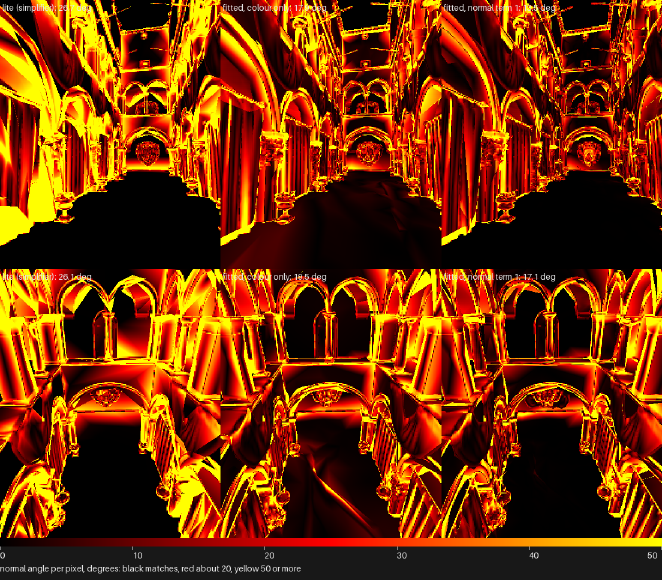
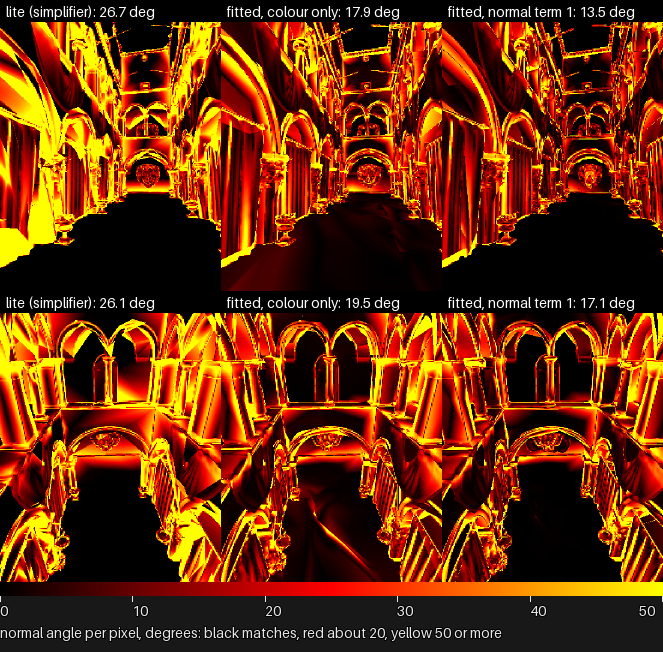
render_lab: the normal-angle heatmaps carry outlined labels

diff --git a/launcher/tools/r3d/appearance_simplify.py b/launcher/tools/r3d/appearance_simplify.py
@@ -251,14 +251,19 @@ def predicted_ms(xp, cost, clip, tris, double, size, scale):
     return variable_ms(cost, drawn, rows, pixels)
 
 
+def normal_pairs(render, points, view, clip):
+    """(the mesh's normals, the reference's, the pixels both cover) in `view`."""
+    matrix, _target, reference, eye = view
+    normal, covered = render.normals(points, matrix, eye, clip)
+    return normal, reference, covered & (reference.abs().sum(-1) > 0)
+
+
 def normal_l1(render, points, view, clip):
     """Mean L1 distance between the mesh's and the reference's normals over
     the pixels both cover, and the angles there in degrees."""
     import torch
 
-    matrix, _target, reference, eye = view
-    normal, covered = render.normals(points, matrix, eye, clip)
-    both = covered & (reference.abs().sum(-1) > 0)
+    normal, reference, both = normal_pairs(render, points, view, clip)
     if not bool(both.any()):
         return normal.sum() * 0, normal.new_zeros(0)
     distance = (normal - reference).abs().sum(-1)[both].mean()
@@ -266,9 +271,11 @@ def normal_l1(render, points, view, clip):
     return distance, torch.rad2deg(torch.acos(cosine.detach()))
 
 
-def normal_error(mesh, views, size, device="cuda"):
+def normal_error(mesh, views, size, device="cuda", angle_dir=None):
     """Mean angular error in degrees between the mesh's normals and the
-    reference's, over the pixels both cover in every view."""
+    reference's, over the pixels both cover in every view. With `angle_dir`,
+    each view's per-pixel angle is also written there as NNNN.angle.npy, NaN
+    where the mesh or the reference shows nothing."""
     import torch
 
     points0, _rgb, tris, double, _scale, vertex_point = mesh
@@ -276,10 +283,16 @@ def normal_error(mesh, views, size, device="cuda"):
     points = torch.as_tensor(points0, dtype=torch.float32, device=device)
     angles = []
     with torch.no_grad():
-        for matrix, target, reference, eye in views:
+        for index, (matrix, target, reference, eye) in enumerate(views):
             view = (torch.as_tensor(matrix, dtype=torch.float32, device=device), None,
                     torch.as_tensor(reference, device=device), eye)
             angles.append(normal_l1(render, points, view, None)[1])
+            if angle_dir is not None:
+                normal, reference, both = normal_pairs(render, points, view, None)
+                cosine = (normal * reference).sum(-1).clamp(-1.0, 1.0)
+                degrees = torch.where(both, torch.rad2deg(torch.acos(cosine)), torch.full_like(cosine, float("nan")))
+                pathlib.Path(angle_dir).mkdir(parents=True, exist_ok=True)
+                np.save(pathlib.Path(angle_dir) / f"{index:04d}.angle.npy", degrees.cpu().numpy())
     return float(torch.cat(angles).mean())
 
 
@@ -441,6 +454,7 @@ def main(argv=None):
     parser.add_argument("--normal-weight", type=float, default=0.0, help="weight of the L1 normal term")
     parser.add_argument("--refine-to", type=int, help="first split the start's worst triangles up to this many")
     parser.add_argument("--score", action="store_true", help="fit nothing: print the start's mean normal error on the poses")
+    parser.add_argument("--angle-dir", help="with --score, also write each pose's per-pixel normal angle there, for render_compare.py --angle-sheet")
     args = parser.parse_args(argv)
     if len(args.poses) != len(args.reference):
         parser.error("give one --reference per --poses")
@@ -462,7 +476,7 @@ def main(argv=None):
         out = pathlib.Path(args.out) / (f"shot{index}" if args.per_shot else "")
         log(f"{out}: {len(views)} views at {size[0]}x{size[1]}")
         if args.score:
-            print(f"normal error: {normal_error(mesh, views, size):.3f} degrees")
+            print(f"normal error: {normal_error(mesh, views, size, angle_dir=args.angle_dir):.3f} degrees")
             continue
         fitted = mesh
         if args.refine_to is not None:

diff --git a/launcher/tools/render/render_compare.py b/launcher/tools/render/render_compare.py
@@ -5,6 +5,12 @@
     render_compare.py --out video.mp4 --video A.avi B.avi --label-a TEXT
         --label-b TEXT [--csv frames.csv] [--fps N] [--clear RRGGBB]
 
+    render_compare.py --out angles.png --angle-column LABEL DIR [--angle-column ...]
+
+--angle-column writes one sheet of normal-angle heatmaps, a column per DIR of
+NNNN.angle.npy files (appearance_simplify.py --score --angle-dir), a row per
+file.
+
 Either form takes --crops N: a second picture, <out>.crops.png, of
 the N places the two differ most, each cut with a margin, A above B and
 enlarged ZOOM (4) times without smoothing. Places with holes come first,
@@ -219,6 +225,28 @@ def reference_sheet(items, label, tile=0.6):
     out = Image.new("RGB", (picture.width, picture.height + 70))
     out.paste(picture, (0, 0))
     out.paste(heat_scale(picture.width), (0, picture.height))
+    return out
+
+
+def angle_sheet(columns, tile=0.6):
+    """Each (label, directory of NNNN.angle.npy) as a column of normal-angle
+    heatmaps, one row per file, on the dE heatmap's colours with degrees in
+    place of dE. A panel's label carries its mean angle over the pixels both
+    meshes cover; uncovered pixels are black."""
+    names = sorted(path.name for path in pathlib.Path(columns[0][1]).glob("*.angle.npy"))
+    strips = []
+    for name in names:
+        pictures = []
+        for label, directory in columns:
+            angle = np.load(pathlib.Path(directory) / name)
+            heat = reference_heatmap_from_error(np.nan_to_num(angle, nan=0.0))
+            pictures.append(captioned(_scaled(heat, tile), "%s: %.1f deg" % (label, np.nanmean(angle))))
+        strips.append(np.concatenate([_pixels(picture) for picture in pictures], axis=1))
+    picture = Image.fromarray(np.concatenate(strips, axis=0).astype(np.uint8))
+    out = Image.new("RGB", (picture.width, picture.height + 70))
+    out.paste(picture, (0, 0))
+    out.paste(heat_scale(picture.width, "normal angle per pixel, degrees: black matches, red about 20, yellow 50 or more"),
+              (0, picture.height))
     return out
 
 
@@ -745,6 +773,8 @@ def main():
     parser.add_argument("--reference-scale", type=int, help="render pixels per reference pixel; default from the first frame")
     parser.add_argument("--reference-first", type=int, default=0, help="video frames to skip before the reference images begin")
     parser.add_argument("--reference-mp4", metavar="MP4", help="with --reference-video, the sheet of every frame as a video")
+    parser.add_argument("--angle-column", nargs=2, action="append", metavar=("LABEL", "DIR"),
+                        help="a column of the --out normal-angle sheet: appearance_simplify.py --score --angle-dir's output")
     parser.add_argument("--heatmap-dir")
     parser.add_argument("--reference-sheet", metavar="PNG", help="with --reference-video, one sheet of --sheet-frames")
     parser.add_argument("--sheet-frames", default="2,4", help="comma-separated video frame indices for --reference-sheet")
@@ -760,6 +790,9 @@ def main():
         parser.error("--label-a and --label-b are required: every panel is labelled")
     if (args.reference_sheet or args.reference_mp4) and not args.label_a:
         parser.error("--label-a, naming the render, is required with --reference-sheet or --reference-mp4")
+    if args.angle_column:
+        angle_sheet(args.angle_column).save(args.out, optimize=True)
+        return
     if args.video:
         line = compare_videos(*args.video, args.out, args.csv, args.clear, GAIN, args.label_a, args.label_b, args.fps, args.crops, ZOOM)
         print(line)

diff --git a/launcher/tools/tests/test_render_compare.py b/launcher/tools/tests/test_render_compare.py
@@ -32,6 +32,21 @@ def image(rows):
     return picture
 
 
+class AngleSheetTest(unittest.TestCase):
+    def test_each_panel_is_labelled_and_the_scale_sits_below(self):
+        with tempfile.TemporaryDirectory() as tmp:
+            for name, value in (("a", 10.0), ("b", 30.0)):
+                (Path(tmp) / name).mkdir()
+                angle = np.full((20, 40), value, dtype=np.float32)
+                angle[0, 0] = np.nan
+                np.save(Path(tmp) / name / "0000.angle.npy", angle)
+            picture = render_compare.angle_sheet([("one", Path(tmp) / "a"), ("two", Path(tmp) / "b")], tile=1.0)
+        self.assertEqual(picture.size, (80, 20 + render_compare.LABEL_BAR + 70))
+        pixels = np.asarray(picture)
+        self.assertEqual(tuple(pixels[render_compare.LABEL_BAR, 0]), (0, 0, 0))
+        self.assertGreater(int(pixels[render_compare.LABEL_BAR + 10, 60, 0]), int(pixels[render_compare.LABEL_BAR + 10, 20, 0]))
+
+
 class MeasureTest(unittest.TestCase):
     def test_identical_images_differ_nowhere(self):
         a = image([[DRAWN, CLEAR], [CLEAR, DRAWN]])

diff --git a/launcher/tools/r3d/README.md b/launcher/tools/r3d/README.md
@@ -202,7 +202,7 @@ as well as colour, and weigh appearance against frame time.
 | Path visibility | The import's `process.visibility` with `source = "camera_path"` keeps only source triangles a ray from some pose of the camera's path lands on, before lighting and simplification, so the budget goes to surfaces the path shows | `light.visible_from_path`, [Mesh-Import.md](../../../docs/render/Mesh-Import.md#import-file) |
 | Pruning | `--budget N` draws every pose of `--coverage-poses` (the training poses when omitted) and counts the pixels each triangle shows; triangles no pose shows go first, then those showing fewest, down to N. Simplifying to more than N and pruning back puts the triangles where they show | `appearance_simplify.coverage`, `prune` |
 | Cost term | `--cost-model board_cost_weights.txt --cost-weight L` adds L dE76 per predicted millisecond to the loss: the model's drawn-triangle, row and pixel terms, differentiable in the vertex positions | `appearance_simplify.predicted_ms`, `cost_model.triangle_terms` |
-| Normal term | `--normal-weight L` adds L times the mean L1 distance between the mesh's interpolated vertex normals and the reference's normal buffer (`reference_render.py --normals`, `NNNN.normal.npy` beside each image) where both cover a pixel; `--score` fits nothing and prints the start's mean normal angle | `appearance_simplify.normal_l1`, `normal_error` |
+| Normal term | `--normal-weight L` adds L times the mean L1 distance between the mesh's interpolated vertex normals and the reference's normal buffer (`reference_render.py --normals`, `NNNN.normal.npy` beside each image) where both cover a pixel; `--score` fits nothing and prints the start's mean normal angle, and with `--angle-dir` writes each pose's per-pixel angle for `render_compare.py --angle-column` | `appearance_simplify.normal_l1`, `normal_error` |
 | Warm start | `--refine-to N` splits the longest edge of the start's worst triangles, by dE summed over the pixels they show, both sides of an edge at once, until N; a fitted coarse mesh then starts a finer fit | `appearance_simplify.refine`, `tessellate.split_marked_edges` |
 
 The cost model's weights come from board frame times of meshes with
